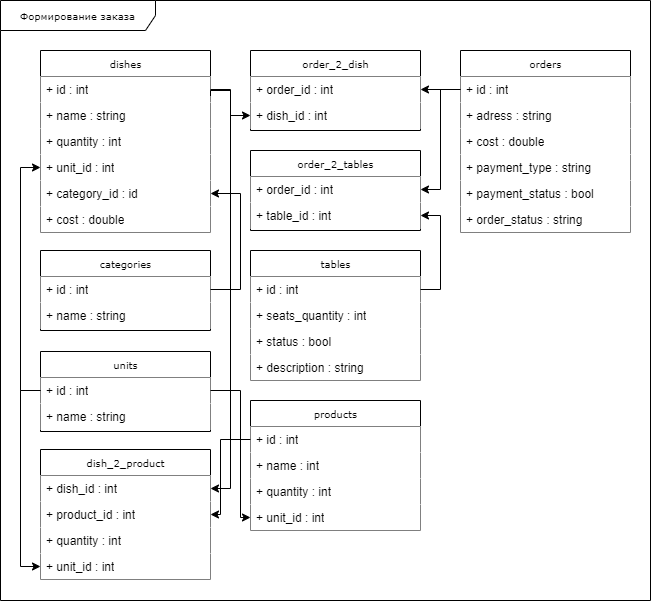
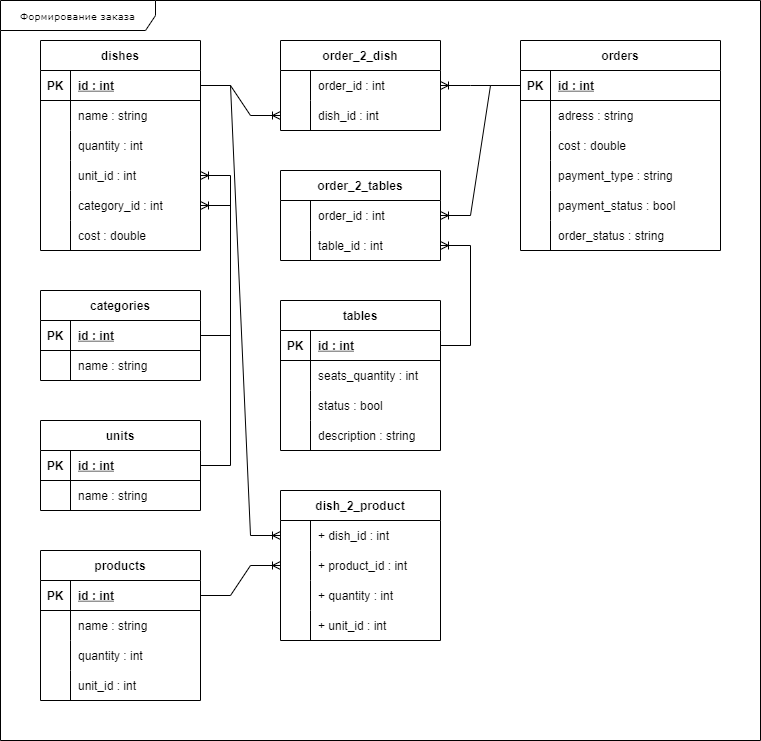
update HW_3 umls and initialize HW_5 Go Project

diff --git a/HW_05/controller/Controller.go b/HW_05/controller/Controller.go
@@ -1,0 +1,18 @@
+package controller
+
+type State int
+const (
+	_ State = iota
+	Create
+	Read
+	Update
+	Delete
+)
+
+type Controller struct {
+	state State
+}
+
+func (c Controller) SetState(state State) {
+	c.state = state
+}

diff --git a/HW_05/main.go b/HW_05/main.go
@@ -1,0 +1,16 @@
+package main
+
+import (
+	"fmt"
+)
+
+func main() {
+	var command string
+	for ; ; {
+		fmt.Print("> ")
+		_, err := fmt.Scan(&command)
+		if err != nil || command == "exit" {
+			return
+		}
+	}
+}

diff --git a/HW_05/table/Table.go b/HW_05/table/Table.go
@@ -1,0 +1,7 @@
+package table
+
+type Table struct {
+	name string
+	table map[string] []int
+}
+
